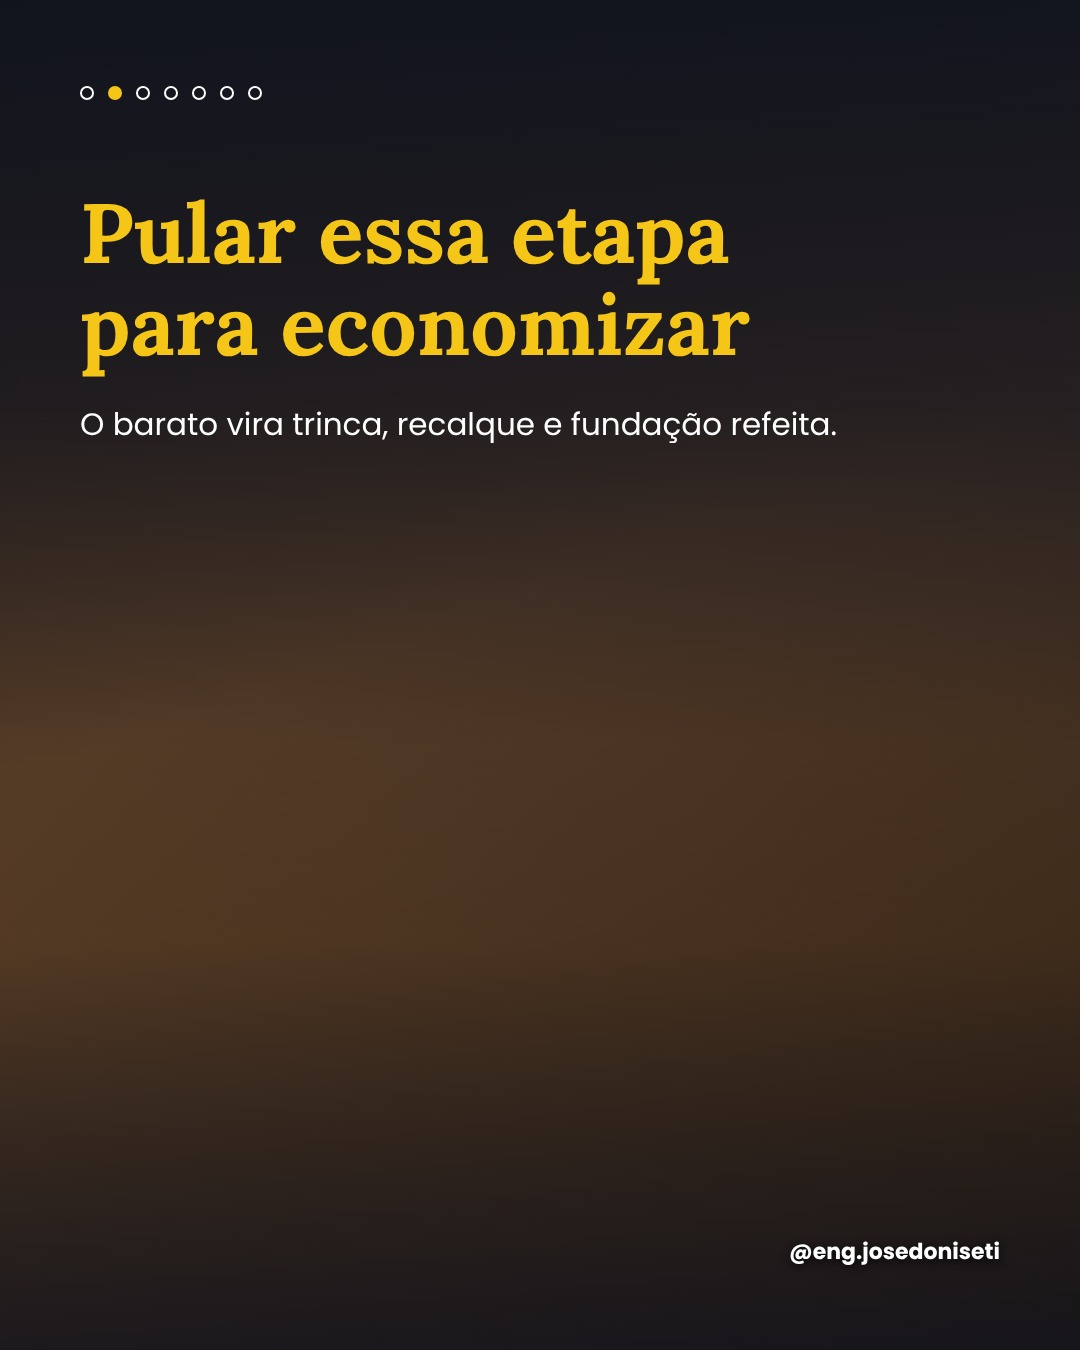
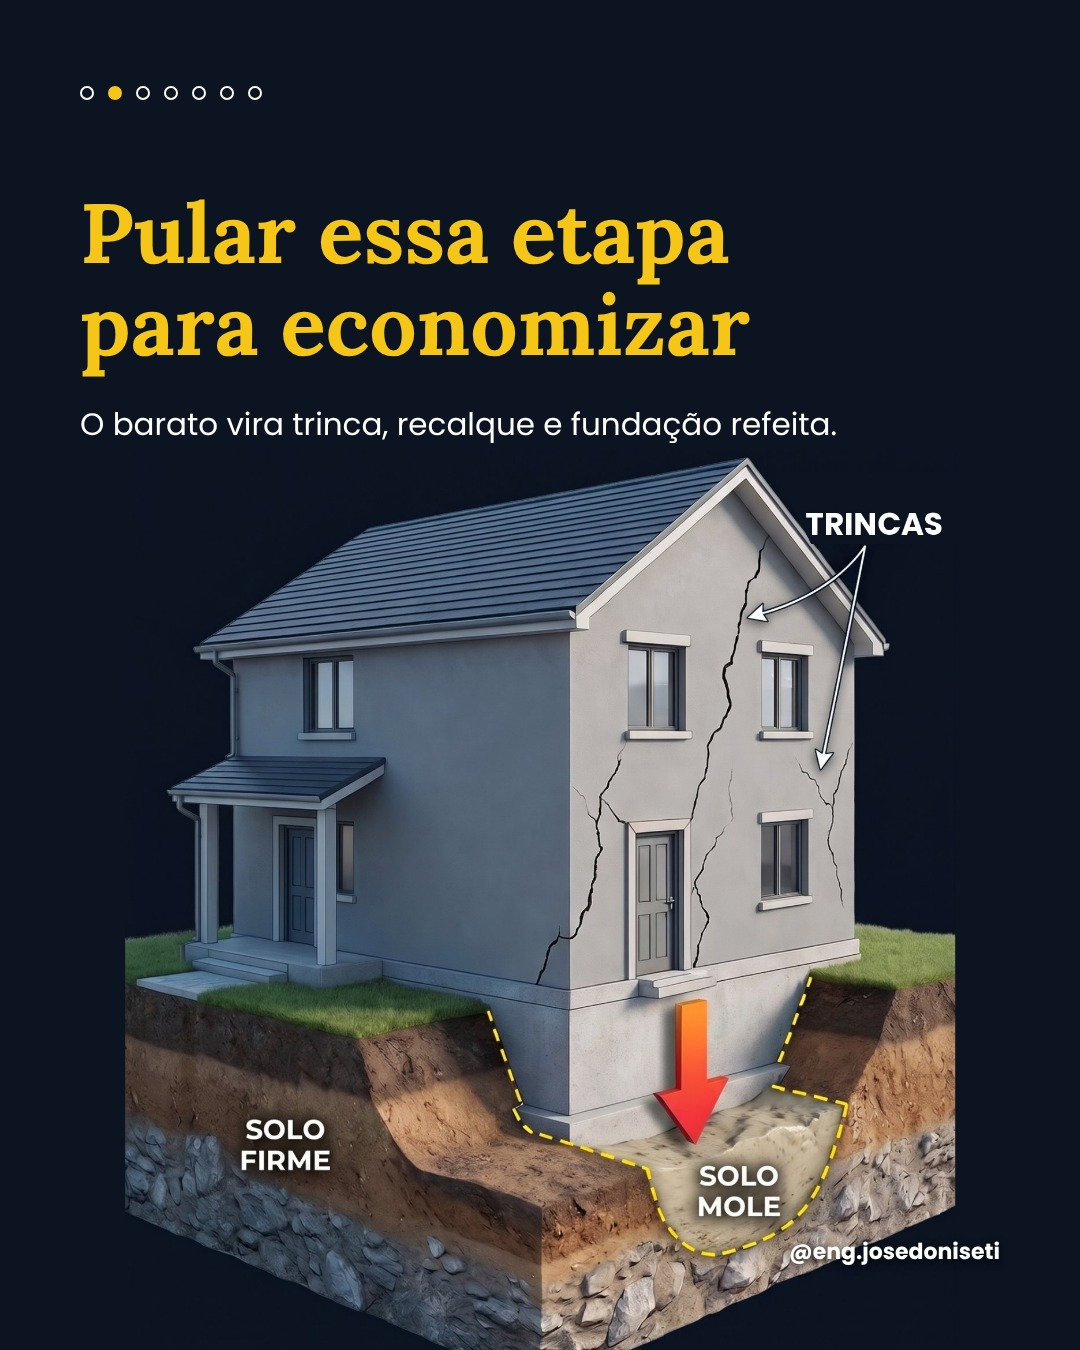
Cap.2: slide 2 final (IA) e rascunho do slide 3
Claude-Session: https://claude.ai/code/session_01Qmcx2L47Gh46qxGywp62mP

diff --git a/2026-10-29_carrossel-topografia-sondagem-cap2/src/render.py b/2026-10-29_carrossel-topografia-sondagem-cap2/src/render.py
@@ -101,6 +101,10 @@ SLIDES = {
    <h2>Pular essa etapa<br>para economizar</h2>
    <div class="sub">O barato vira trinca, recalque e fundação refeita.</div></div>
    <div class="h">@eng.josedoniseti</div>""",
+ "slide03_topografia": lambda: f"""<div class="c"><div class="dots">{dots(3)}</div>
+   <h2>Topografia</h2>
+   <div class="sub">Mede desnível, divisas e a área real do terreno.<br>Sem ela: aterro fora do orçamento e muro fora da divisa.</div>
+   <div class="h">@eng.josedoniseti</div></div>""",
  "slide01_capa": lambda: f"""<div class="c"><div class="dots">{dots(1)}</div>
    <div class="tag">CAP. 2 · ETAPA 1</div>
    <h1>Seu terreno esconde<br>o que você <em>não vê.</em></h1>
